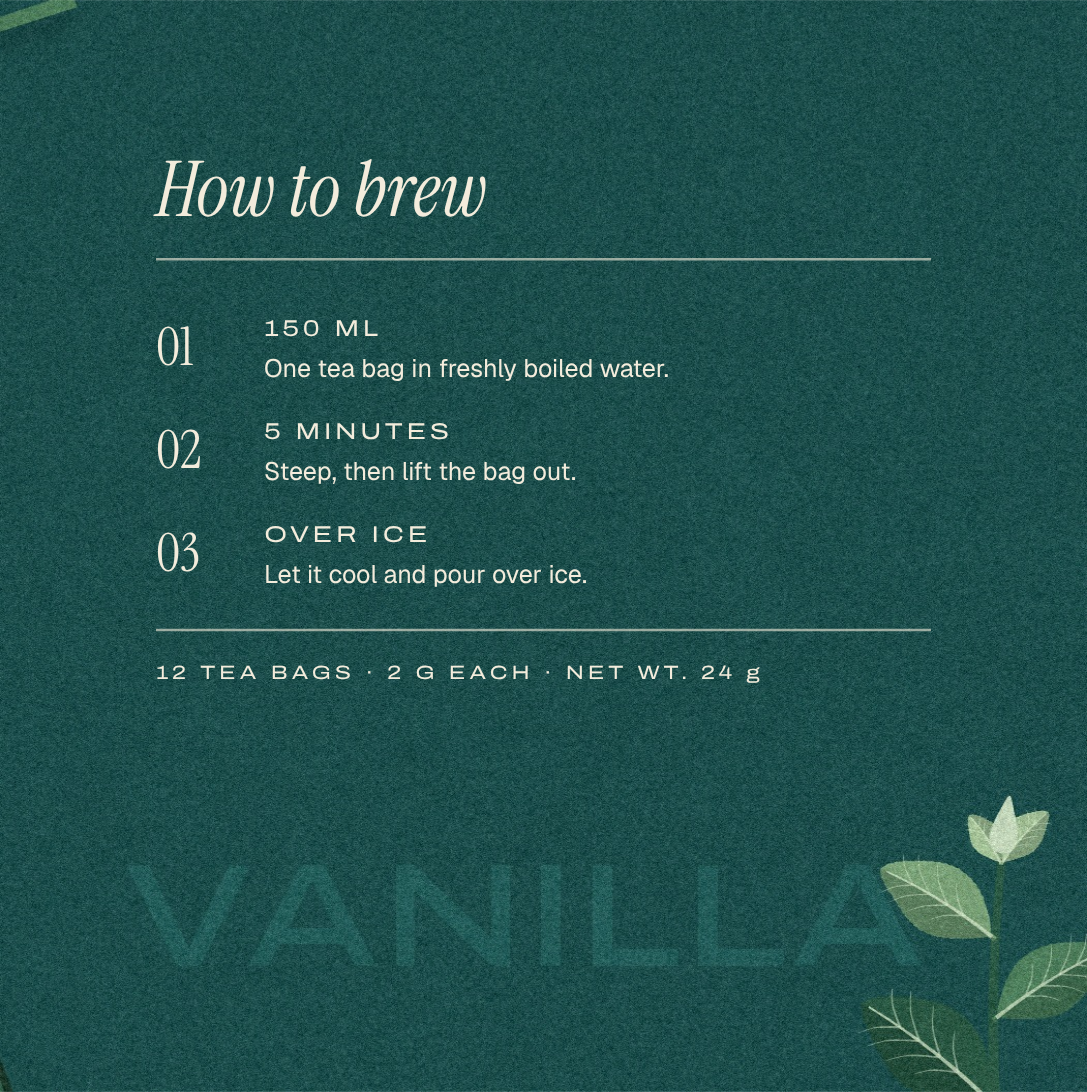
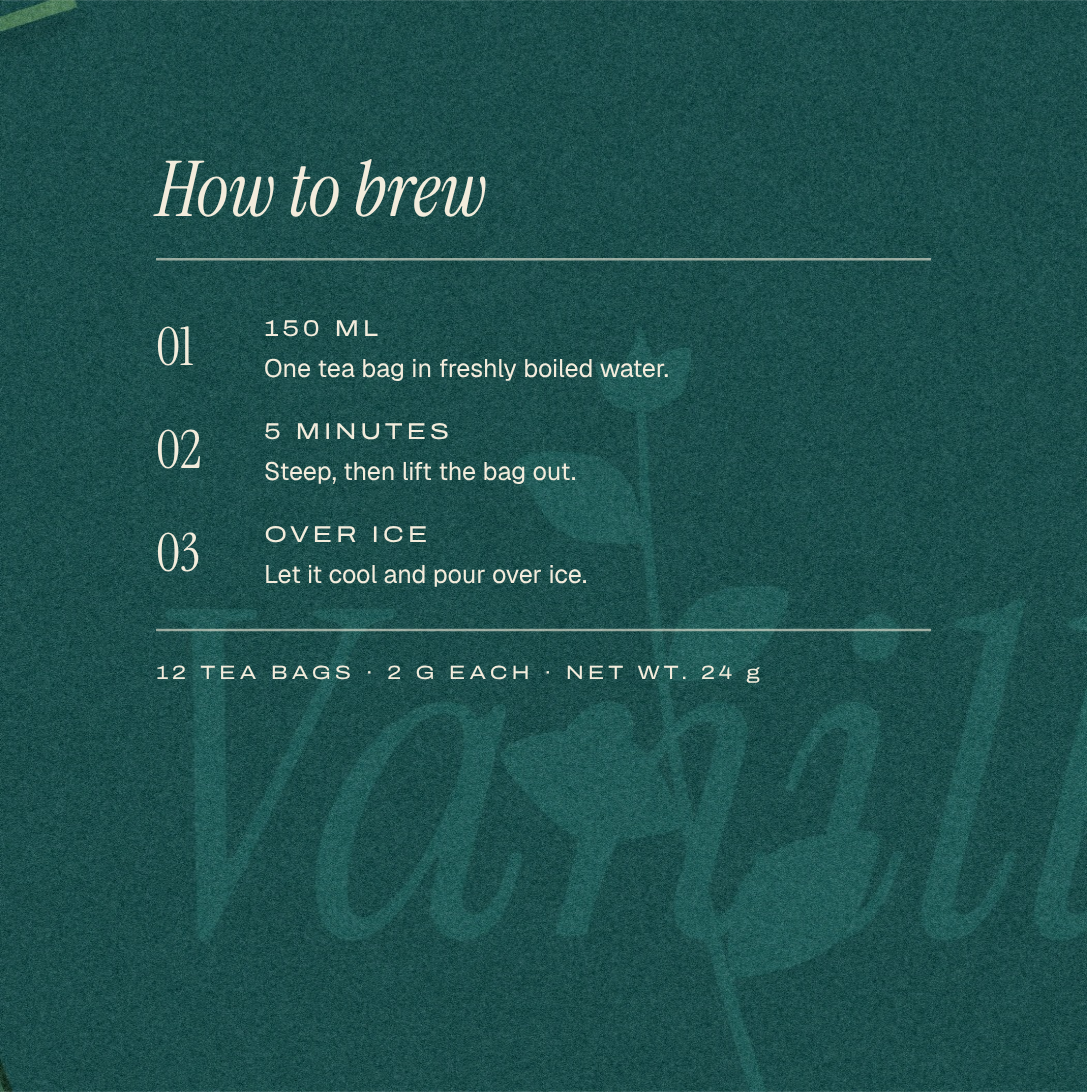
Vanilla Tea cartons: Vanilla Tea in the italic wrapping brew side and back, botanical shadows in the same tone, back panels in teal
Claude-Session: https://claude.ai/code/session_01Psd6wLDi15Gf4F1fXEFmxS

diff --git a/vanilla-shop/studies/tea/colourblock/build5.py b/vanilla-shop/studies/tea/colourblock/build5.py
@@ -1,0 +1,97 @@
+# Vanilla Tea cartons, round 5: branch 3.2 built in. The brew side and the back share one teal ground; "Vanilla Tea"
+# in the italic runs margin to margin across both, on the 10 mm foot ("Tea" a tone lighter); and the botanical there is
+# drawn in the same single tone, like shadows on the teal: tea shoots, the vanilla vine with its flower, pods at the foot.
+import sys, json, math, numpy as np
+from PIL import Image, ImageDraw, ImageFont
+S='/tmp/claude-0/-home-user-PersonalEventPlanner305App/0712b206-ea71-562e-9a83-45f8f096455f/scratchpad/'
+sys.path.insert(0,S+'teasoap'); sys.path.insert(0,S+'teaart')
+import build as b
+from build import logo, txt, caps, rule, para, lion, face, grain, hx, B
+from build2 import shoot, vleaf, laid_on, CW, K
+from build3 import BOX, washi
+import build4 as b4
+from build4 import estate
+from foliage2 import paint_flower, paint_pod, paint_vbud, Paint
+O=b.O; IS='/home/user/PersonalEventPlanner305App/vanilla-shop/fonts/instrument-serif-italic.ttf'
+TEA_TONE='#2D6C68'
+def fit(text,mm):
+    f=ImageFont.truetype(IS,400); bb=f.getbbox(text); return ImageFont.truetype(IS,int(400*mm*K/(bb[2]-bb[0])))
+def mask(h,w,text,fnt,x,y):
+    m=Image.new('L',(w,h),0); bb=fnt.getbbox(text); ImageDraw.Draw(m).text((x*K-bb[0],y*K),text,font=fnt,fill=255,anchor='ls')
+    return np.asarray(m).astype(np.float32)/255
+def silhouette(h,w,paint):
+    """paint the botanical, keep only its shape: one flat tone, like a shadow"""
+    c0=np.zeros((h,w,3),np.float32); c1=np.full((h,w,3),255.0,np.float32); paint(c0); paint(c1)
+    return np.clip(1-(c1-c0).mean(2)/255,0,1)
+def art(box,k='teal'):
+    d=BOX[box]; FW,FH,SW,LH,SPLIT=d['FW'],d['FH'],d['SW'],d['LH'],d['SPLIT']; p=CW[k]; L=p['leaves']
+    W,H=B+FW+SW+FW+B,FH+2*B; w,h=int(W*K),int(H*K); P=Paint(W,H,seed=3); f=B+FW; g=f+SW   # g: the fold onto the back
+    img=np.ones((h,w,3),np.float32)*hx(p['band'])
+    # the shadows on the brew side and back, in the word's tone
+    def shade_paint(c):
+        if box=='long':
+            shoot(P,c,(f+64,B+FH+6),-112,74,0.3,22,L,'#000000',21,1)
+            shoot(P,c,(g+FW+4,B-4),148,70,0.3,24,L,'#000000',22,-1)
+            vleaf(P,c,(g+40,B+FH+6),-70,62,7,0.25,'#000000')
+            paint_flower(P,c,(g+FW-46,B+30),210,2.2); paint_vbud(P,c,(g+FW-74,B+20),-120,7); paint_vbud(P,c,(g+FW-30,B+52),40,6)
+        else:
+            shoot(P,c,(f+62,B+FH+6),-110,62,0.3,19,L,'#000000',21,1)
+            shoot(P,c,(g+FW+4,B-4),146,52,0.3,19,L,'#000000',22,-1)
+            paint_flower(P,c,(g+FW-26,B+32),210,1.6); paint_vbud(P,c,(g+FW-46,B+22),-120,5.5)
+    sh=silhouette(h,w,shade_paint); xx=np.arange(w,dtype=np.float32)[None,:]/K; sh*=(xx>f)
+    img=img*(1-sh[...,None])+hx(p['word'])*sh[...,None]
+    # Vanilla Tea, margin to margin across the brew side and the back, on the 10 mm foot
+    fnt=fit('Vanilla Tea',(g+FW-10)-(f+10)); m1=mask(h,w,'Vanilla',fnt,f+10,B+FH-10); mall=mask(h,w,'Vanilla Tea',fnt,f+10,B+FH-10)
+    img=img*(1-m1[...,None])+hx(p['word'])*m1[...,None]; m2=np.clip(mall-m1,0,1); img=img*(1-m2[...,None])+hx(TEA_TONE)*m2[...,None]
+    # the front, as before
+    if box=='long':
+        vleaf(P,img,(B+SPLIT+4,B+92),-62,70,8.5,0.25,'#2A5240'); vleaf(P,img,(f+2,B+96),-118,64,7.5,-0.2,'#33604A')
+        shoot(P,img,(f-3,B-4),134,56,0.3,25,L[1:],'#CFE0C2',3,1); shoot(P,img,(B+SPLIT+10,B+97),-78,66,0.35,26,L,'#CFE0C2',5,1)
+        shoot(P,img,(f-4,B+97),-118,56,-0.25,24,L[1:],'#CFE0C2',8,-1)
+        over=lambda c:([paint_pod(P,c,*q) for q in [((B+SPLIT-14,B+86),-17,76,2.3,0.12,0),((B+SPLIT-9,B+91),-24,68,2.0,0.08,0)]],
+                       [paint_vbud(P,c,*q) for q in [((f-20,B+20),-60,7.5),((B+SPLIT+12,B+30),200,6.5)]],paint_flower(P,c,(f-37,B+46),38,2.6))
+    else:
+        vleaf(P,img,(B+SPLIT+3,B+92),-64,52,6.5,0.25,'#2A5240'); vleaf(P,img,(f+2,B+96),-118,48,5.8,-0.2,'#33604A')
+        shoot(P,img,(B+SPLIT+6,B+97),-80,50,0.35,19,L,'#CFE0C2',5,1); shoot(P,img,(f-3,B+97),-116,42,-0.25,18,L[1:],'#CFE0C2',8,-1)
+        over=lambda c:(shoot(P,c,(f+6,B-3),158,52,0.35,19,L[1:],'#CFE0C2',3,1),
+                       [paint_pod(P,c,*q) for q in [((B+SPLIT-6,B+87),-19,34,1.6,0.12,0),((B+SPLIT-3,B+91),-27,30,1.4,0.08,0)]],
+                       [paint_vbud(P,c,*q) for q in [((f-10,B+24),-60,5.5)]],paint_flower(P,c,(f-27,B+56),38,1.85))
+    img,cream=washi(img,p,SPLIT)
+    if box=='long':
+        es=estate(h,w,-B,[(60,[(62,18,14,0.2),(84,30,13,-0.15),(110,22,16,0.1)],0.02,0.95,0.24,0.26),
+                          (69,[(56,10,16,0.0),(100,17,15,0.25),(124,12,12,0.0)],0.025,1.25,0.31,0.3),
+                          (84,[(92,22,20,0.2)],0.03,1.75,0.42,0.36)],trees=[(84,7.0),(94,8.5),(103,6.5)])
+        xs=np.arange(w,dtype=np.float32)[None,:]/K-B; fx=np.clip((xs-46)/30,0,1); fx=fx*fx*(3-2*fx)
+        A=es*fx*cream; img=img*(1-A[...,None])+hx(p['band'])*A[...,None]
+    img=laid_on(img,over); img=grain(img,17); out=img.clip(0,255).astype(np.uint8)
+    Image.fromarray(out[:,:int((FW+2*B)*K)]).save(O+f'{box}5-front.jpg',quality=94)
+    Image.fromarray(out[:,int((FW+B)*K):int((FW+SW+2*B)*K)]).save(O+f'{box}5-side.jpg',quality=94)
+    Image.fromarray(out[:,int((FW+SW+B)*K):]).save(O+f'{box}5-back.jpg',quality=94)
+    b4.O=O; b4.art.__globals__  # lid stays as round 4
+def back(box,k='teal'):
+    d=BOX[box]; FW,FH=d['FW'],d['FH']; p=CW[k]; c=p['lt']; o=[]
+    if box=='long':
+        o.append(txt('Vanilla was never plain.',10,15,6.4,c,'IS')); o.append(rule(10,18.6,FW-10,18.6,c,0.2,0.6))
+        cw=46; xs=[10+i*(cw+9) for i in range(3)]; y0=25
+        cols=(('THE TEA','The delicate sweetness of natural vanilla unfolds through warm, comforting notes and a smooth, mellow aroma.'),
+              ("WHAT'S INSIDE",'25 tagged, unbleached sachet tea bags of Ceylon black tea with natural vanilla.'),
+              ('STORAGE','Keep in a cool, dry place, away from strong odours. Close the box after use.'))
+    else:
+        o.append(txt('Vanilla was never plain.',8,14,5.2,c,'IS')); o.append(rule(8,17.6,FW-8,17.6,c,0.2,0.6))
+        cw=33; xs=[8,8+cw+5.6]; y0=24
+        cols=(('THE TEA','The delicate sweetness of natural vanilla unfolds through warm, comforting notes and a smooth, mellow aroma.'),
+              ("WHAT'S INSIDE",'12 tagged, unbleached sachet tea bags of Ceylon black tea with natural vanilla.'))
+    for xx,(hd,t) in zip(xs,cols):
+        o.append(caps(hd,xx,y0,1.6,c,tr=0.2)); pp,_=para(t,xx,y0+4.4,cw,2.1,3.0,c); o+=pp
+    for xx in xs[1:]: o.append(rule(xx-(4.5 if box=='long' else 2.8),y0-2.4,xx-(4.5 if box=='long' else 2.8),46,c,0.15,0.4))
+    o.append(rule(10 if box=='long' else 8,49.5,FW-(10 if box=='long' else 8),49.5,c,0.2,0.6))
+    return face(f'{box}5-B',FW,FH,f'{box}5-back.jpg',o)
+def front(box): r=b4.front(box); return rename(r,box,'F')
+def side(box): r=b4.side(box); return rename(r,box,'S')
+def rename(r,box,n):
+    src=open(r[0]+'.html').read().replace(f'{box}4-front.jpg',f'{box}5-front.jpg').replace(f'{box}4-side.jpg',f'{box}5-side.jpg')
+    nm=O+f'{box}5-{n}'; open(nm+'.html','w').write(src); return [nm,r[1],r[2]]
+if __name__=='__main__':
+    man=[]
+    for box in (sys.argv[1:] or BOX): art(box); man+=[front(box),side(box),back(box)]
+    json.dump(man,open(O+'faces5.json','w')); print('ok')
